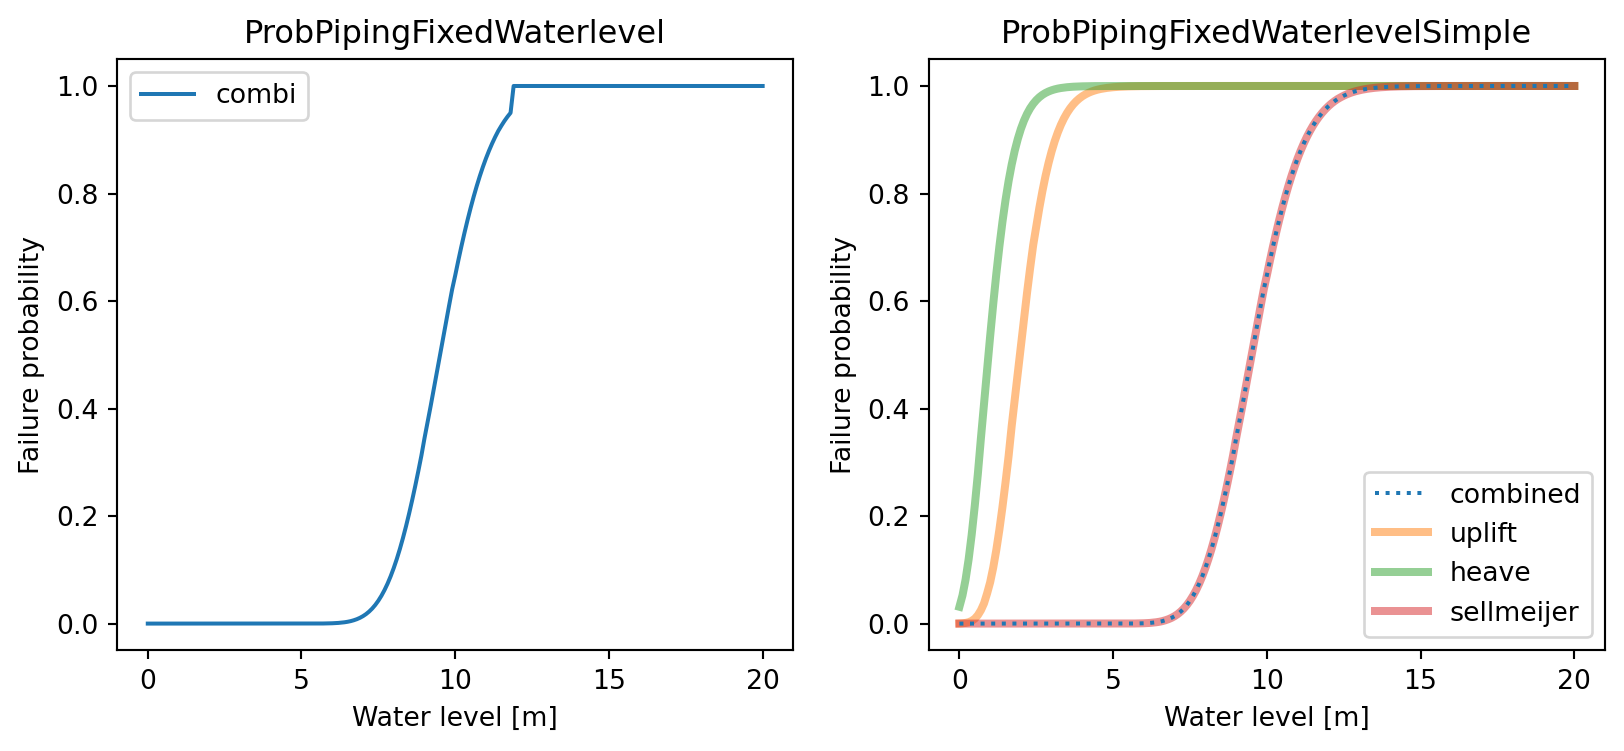
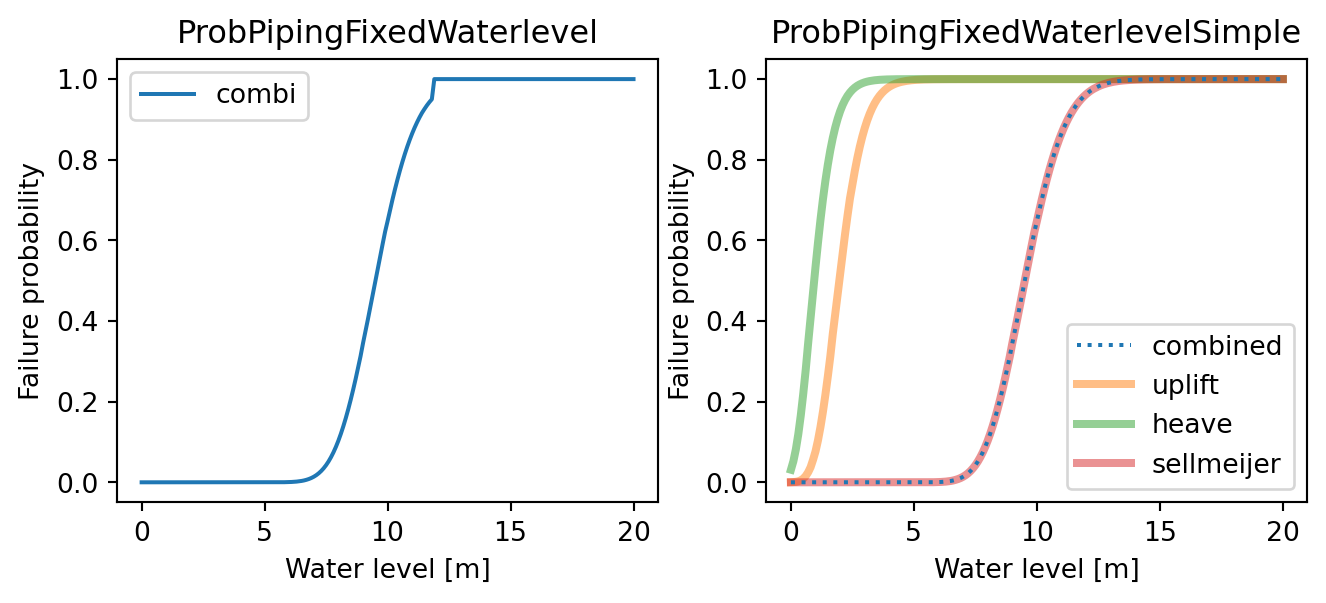
deploy: 04d8c16689682e6870016296156999e27221339e

diff --git a/examples/notebooks/fixed_waterlevel.html b/examples/notebooks/fixed_waterlevel.html
@@ -217,7 +217,7 @@ pre > code.sourceCode > span > a:first-child::before { text-decoration: underlin
 </div>
 <p>We can now visually compare the results of the two approaches. The results are subtly different, but overal comparable.</p>
 <div id="cell-10" class="cell" data-execution_count="5">
-<div class="sourceCode cell-code" id="cb5"><pre class="sourceCode python code-with-copy"><code class="sourceCode python"><span id="cb5-1"><a href="#cb5-1" aria-hidden="true" tabindex="-1"></a>fig, (ax1, ax2) <span class="op">=</span> plt.subplots(ncols<span class="op">=</span><span class="dv">2</span>, figsize<span class="op">=</span>(<span class="dv">10</span>, <span class="dv">4</span>))</span>
+<div class="sourceCode cell-code" id="cb5"><pre class="sourceCode python code-with-copy"><code class="sourceCode python"><span id="cb5-1"><a href="#cb5-1" aria-hidden="true" tabindex="-1"></a>fig, (ax1, ax2) <span class="op">=</span> plt.subplots(ncols<span class="op">=</span><span class="dv">2</span>, figsize<span class="op">=</span>(<span class="dv">8</span>, <span class="dv">3</span>))</span>
 <span id="cb5-2"><a href="#cb5-2" aria-hidden="true" tabindex="-1"></a>ax1.set_title(<span class="st">"ProbPipingFixedWaterlevel"</span>)</span>
 <span id="cb5-3"><a href="#cb5-3" aria-hidden="true" tabindex="-1"></a>ax1.plot([r.h <span class="cf">for</span> r <span class="kw">in</span> pc.results], [r.prob_cond <span class="cf">for</span> r <span class="kw">in</span> pc.results], label<span class="op">=</span><span class="st">"combi"</span>)</span>
 <span id="cb5-4"><a href="#cb5-4" aria-hidden="true" tabindex="-1"></a>ax1.set_xlabel(<span class="st">"Water level [m]"</span>)</span>
@@ -236,7 +236,7 @@ pre > code.sourceCode > span > a:first-child::before { text-decoration: underlin
 <div class="cell-output cell-output-display">
 <div>
 <figure class="figure">
-<p><img src="fixed_waterlevel_files/figure-html/cell-6-output-1.png" width="812" height="376" class="figure-img"></p>
+<p><img src="fixed_waterlevel_files/figure-html/cell-6-output-1.png" width="663" height="302" class="figure-img"></p>
 </figure>
 </div>
 </div>
